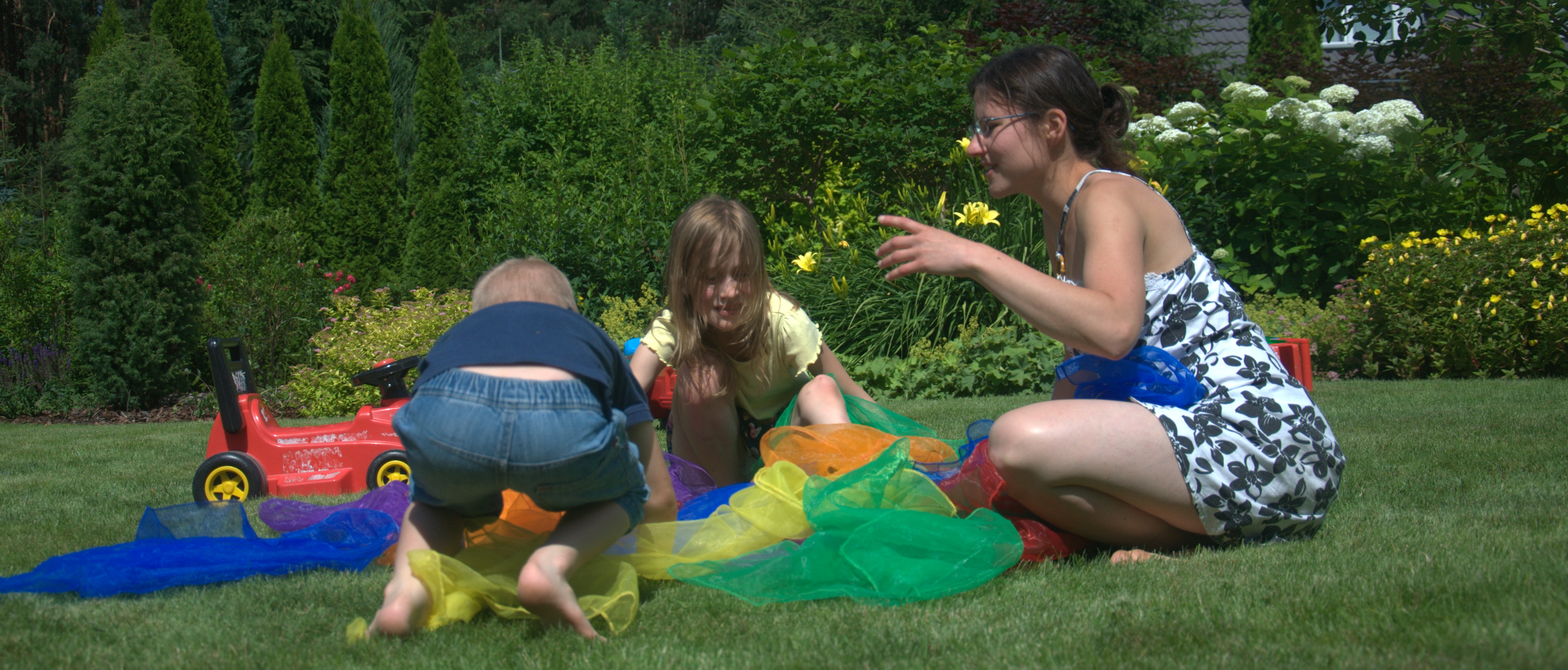
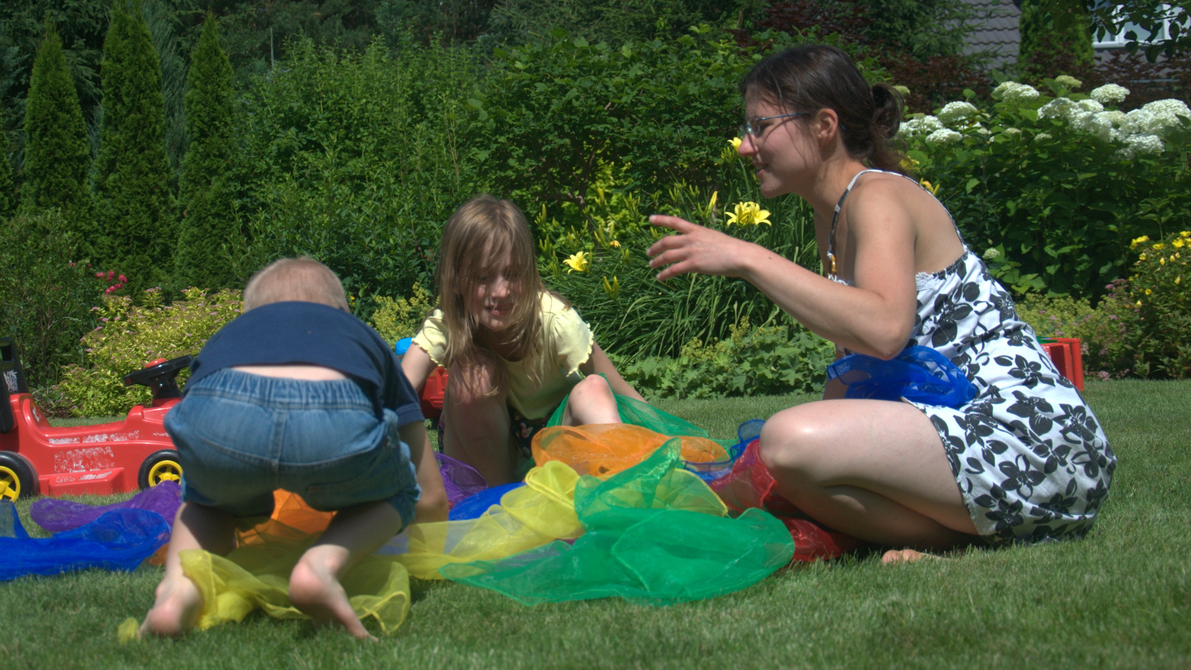
Poster used.

diff --git a/_includes/header.html b/_includes/header.html
@@ -31,7 +31,7 @@
 <!-- Header -->
 	<div class="intro-header">
               <div class="intro-wrapper">
-                <video loop="" muted="" id="intro-video" class="intro-video">
+                <video loop="" muted="" id="intro-video" class="intro-video" poster="img/intro-bg.jpg">
                   <source src="img/Gordonki1.mp4" type="video/mp4">
                 </video>
                 

diff --git a/css/landing-page.css b/css/landing-page.css
@@ -31,8 +31,6 @@ h6 {
     padding-bottom: 50px;
     text-align: center;
     color: #f8f8f8;
-//    background: url(../img/intro-bg.jpg) no-repeat center center;
-    background-size: cover;
 }
 
 .intro-wrapper-out {
@@ -192,5 +190,6 @@ video.intro-video {
     width: 95%;
     height: 100vh;
     object-fit: cover;
+
 }
 
